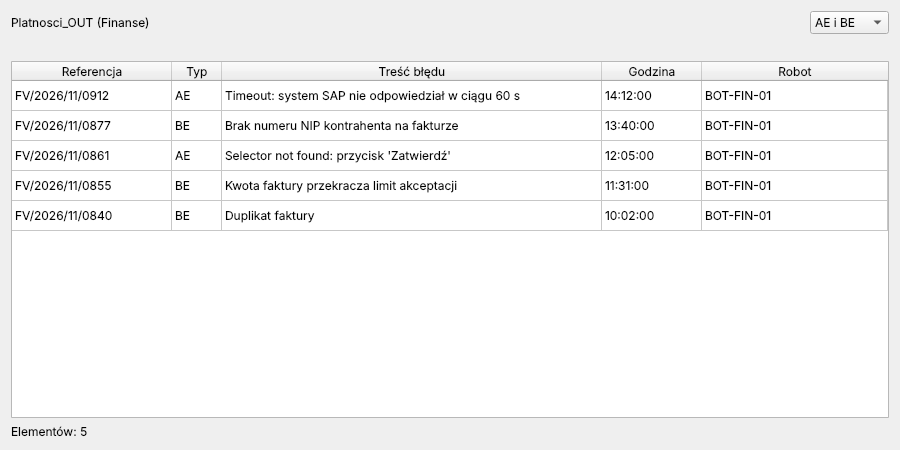
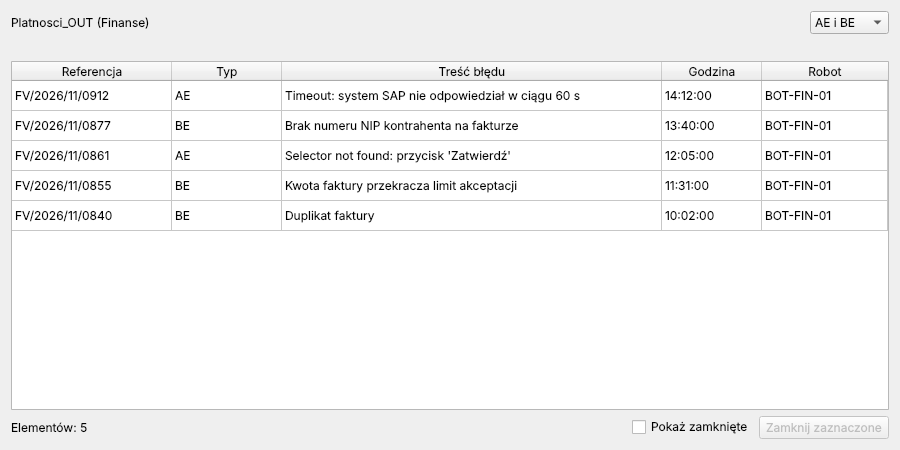
Szczegóły kolejki: szersza kolumna Typ, zrzut zamkniętych błędów
Claude-Session: https://claude.ai/code/session_01BMJ8JcwMw6KeHnJvEjhUBT

diff --git a/orch_monitor/ui/queue_details_dialog.py b/orch_monitor/ui/queue_details_dialog.py
@@ -99,7 +99,7 @@ class QueueDetailsDialog(QDialog):
         self.table.setSelectionBehavior(QAbstractItemView.SelectionBehavior.SelectRows)
         self.table.setSelectionMode(QAbstractItemView.SelectionMode.ExtendedSelection)
         self.table.setColumnWidth(0, 160)
-        self.table.setColumnWidth(1, 50)
+        self.table.setColumnWidth(1, 110)
         self.table.setColumnWidth(2, 380)
         self.table.verticalHeader().setVisible(False)
         top = QHBoxLayout()

diff --git a/README.md b/README.md
@@ -137,5 +137,6 @@ docs/              specyfikacja, plan budowy, lista kontrolna tenanta
 ![Raport tygodniowy – podsumowanie](docs/img/5_raport_tydzien.png)
 ![Raport tygodniowy – dni](docs/img/6_raport_dni.png)
 ![Ustawienia](docs/img/7_ustawienia.png)
+![Zamknięte błędy w szczegółach kolejki](docs/img/8_zamkniete_bledy.png)
 
 *Zrzuty ekranu z danymi testowymi.*
